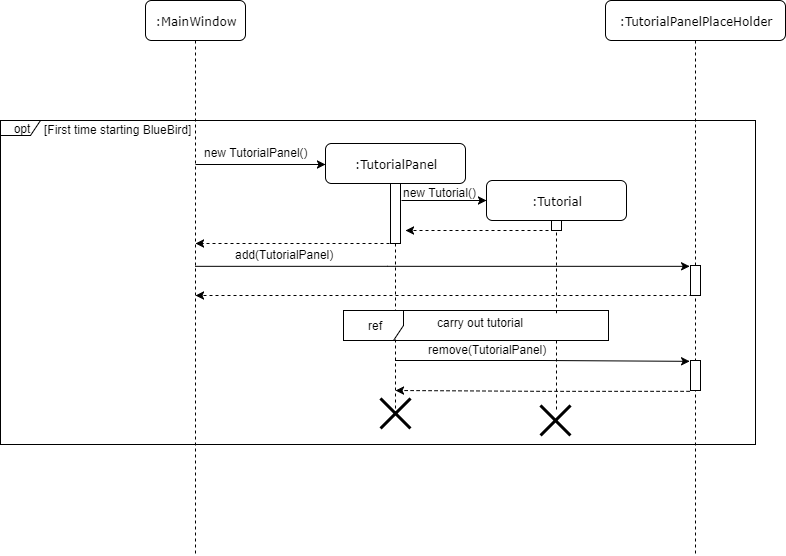
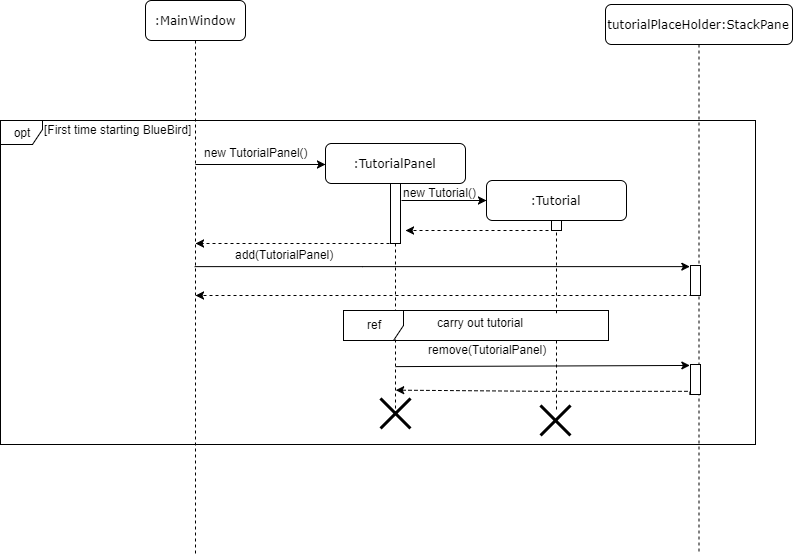
Rebuild pages at 740e5a27db8726411d00f9b6d494b023f313d6d5

diff --git a/DeveloperGuide.html b/DeveloperGuide.html
@@ -458,7 +458,7 @@ Note how the event is propagated through the <code>EventsCenter</code> to the <c
 <p><strong>API</strong> : <a href="https://github.com/CS2103AUG2017-T15-B4/main/tree/master/src/main/java/seedu/address/ui/Ui.java"><code>Ui.java</code></a></p>
 </div>
 <div class="paragraph">
-<p>The UI consists of a <code>MainWindow</code> that is made up of parts e.g.<code>CommandBox</code>, <code>ResultDisplay</code>, <code>PersonListPanel</code>, <code>StatusBarFooter</code>, <code>BrowserPanel</code> etc. All these, including the <code>MainWindow</code>, inherit from the abstract <code>UiPart</code> class.</p>
+<p>The UI consists of a <code>MainWindow</code> that is made up of parts e.g.<code>CommandBox</code>, <code>ResultDisplay</code>, <code>PersonListPanel</code>, <code>StatusBarFooter</code> etc. All these, including the <code>MainWindow</code>, inherit from the abstract <code>UiPart</code> class.</p>
 </div>
 <div class="paragraph">
 <p>The <code>UI</code> component uses JavaFx UI framework. The layout of these UI parts are defined in matching <code>.fxml</code> files that are in the <code>src/main/resources/view</code> folder. For example, the layout of the <a href="https://github.com/CS2103AUG2017-T15-B4/main/tree/master/src/main/java/seedu/address/ui/MainWindow.java"><code>MainWindow</code></a> is specified in <a href="https://github.com/CS2103AUG2017-T15-B4/main/tree/master/src/main/resources/view/MainWindow.fxml"><code>MainWindow.fxml</code></a></p>
@@ -1154,8 +1154,48 @@ variable change to <code>true</code>. Similarly, the variable can be changed fro
 <p>The first time tutorial will be launched when users start the Bluebird app for the very first time. To
 detect that Bluebird is launched for the first time, a boolean variable <code>isFirstTimeOpen</code> in <code>MainApp</code> is used.
 It is set to <code>false</code> by default and will only be set to <code>true</code> when Bluebird detects that <code>addressbook.xml</code> is not found.
-When <code>isFirstTimeOpen</code> is detected as <code>true</code> by the <code>MainWindow</code>, <code>TutorialPanel</code> will be added into the tutorial place holder.
- <code>TutorialPanel</code> will be removed at the end of the tutorial. Figure 4.10.1 shows the sequence of events that happens.</p>
+The code snippet below shows how <code>isFirstTimeOpen</code> is set to true.</p>
+</div>
+<div class="listingblock">
+<div class="content">
+<pre class="CodeRay highlight"><code data-lang="java"><span class="directive">public</span> <span class="type">class</span> <span class="class">MainApp</span> <span class="directive">extends</span> Application {
+    ...
+    private Model initModelManager(Storage storage, UserPrefs userPrefs) {
+        ...
+        try {
+            addressBookOptional = storage.readAddressBook();
+            <span class="keyword">if</span> (!addressBookOptional.isPresent()) {
+                logger.info(<span class="string"><span class="delimiter">&quot;</span><span class="content">Data file not found. Will be starting with a sample AddressBook</span><span class="delimiter">&quot;</span></span>);
+                isFirstTimeOpen = <span class="predefined-constant">true</span>;
+            }
+            ...
+        }
+        ...
+    }</code></pre>
+</div>
+</div>
+<div class="paragraph">
+<p>When <code>isFirstTimeOpen</code> is detected as <code>true</code> by the <code>MainWindow</code>, <code>TutorialPanel</code> will be added into the tutorial place holder.
+ <code>TutorialPanel</code> will be removed at the end of the tutorial.
+The code snippet below shows how <code>TutorialPanel</code> is added in the
+<code>MainWindow</code> when Bluebird is launched for the first time.</p>
+</div>
+<div class="listingblock">
+<div class="content">
+<pre class="CodeRay highlight"><code data-lang="java"><span class="directive">public</span> <span class="type">class</span> <span class="class">MainWindow</span> <span class="directive">extends</span> UiPart&lt;<span class="predefined-type">Region</span>&gt; {
+    ...
+    void fillInnerParts() {
+        ...
+        if (MainApp.isFirstTimeOpen()) {
+            TutorialPanel tutorialPanel = <span class="keyword">new</span> TutorialPanel(<span class="local-variable">this</span>, tutorialPlaceholder);
+            tutorialPlaceholder.getChildren().add(tutorialPanel.getRoot());
+        }
+        ...
+}</code></pre>
+</div>
+</div>
+<div class="paragraph">
+<p>Figure 4.10.1 shows the sequence of events that happens.</p>
 </div>
 <div class="imageblock">
 <div class="content">
@@ -1177,24 +1217,6 @@ to click next, back or skip tutorial at any point of the tutorial. The sequence 
 </div>
 <div class="paragraph">
 <p>Figure 4.10.2: Sequence diagram for refrence frame "carry out tutorial"</p>
-</div>
-<div class="paragraph">
-<p>The code snippet below shows how <code>TutorialPanel</code> is added in the
-<code>MainWindow</code> when Bluebird is launched for the first time.</p>
-</div>
-<div class="listingblock">
-<div class="content">
-<pre class="CodeRay highlight"><code data-lang="java"><span class="directive">public</span> <span class="type">class</span> <span class="class">MainWindow</span> <span class="directive">extends</span> UiPart&lt;<span class="predefined-type">Region</span>&gt; {
-    ...
-    void fillInnerParts() {
-        ...
-        if (MainApp.isFirstTimeOpen()) {
-            TutorialPanel tutorialPanel = <span class="keyword">new</span> TutorialPanel(<span class="local-variable">this</span>, browserPlaceholder);
-            tutorialPlaceholder.getChildren().add(tutorialPanel.getRoot());
-        }
-        ...
-}</code></pre>
-</div>
 </div>
 <div class="paragraph">
 <p>The code snippet below shows how <code>TutorialPanel</code> is removed after
@@ -3191,7 +3213,7 @@ distinguishable from the text</pre>
 </div>
 <div id="footer">
 <div id="footer-text">
-Last updated 2017-11-12 08:49:52 +00:00
+Last updated 2017-11-12 09:19:32 +00:00
 </div>
 </div>
 </body>

diff --git a/team/alpheus.html b/team/alpheus.html
@@ -266,8 +266,48 @@ Therefore, there is a need to provide first time users of Bluebird a step-by-ste
 <p>The first time tutorial will be launched when users start the Bluebird app for the very first time. To
 detect that Bluebird is launched for the first time, a boolean variable <code>isFirstTimeOpen</code> in <code>MainApp</code> is used.
 It is set to <code>false</code> by default and will only be set to <code>true</code> when Bluebird detects that <code>addressbook.xml</code> is not found.
-When <code>isFirstTimeOpen</code> is detected as <code>true</code> by the <code>MainWindow</code>, <code>TutorialPanel</code> will be added into the tutorial place holder.
- <code>TutorialPanel</code> will be removed at the end of the tutorial. Figure 4.10.1 shows the sequence of events that happens.</p>
+The code snippet below shows how <code>isFirstTimeOpen</code> is set to true.</p>
+</div>
+<div class="listingblock">
+<div class="content">
+<pre class="CodeRay highlight"><code data-lang="java"><span class="directive">public</span> <span class="type">class</span> <span class="class">MainApp</span> <span class="directive">extends</span> Application {
+    ...
+    private Model initModelManager(Storage storage, UserPrefs userPrefs) {
+        ...
+        try {
+            addressBookOptional = storage.readAddressBook();
+            <span class="keyword">if</span> (!addressBookOptional.isPresent()) {
+                logger.info(<span class="string"><span class="delimiter">&quot;</span><span class="content">Data file not found. Will be starting with a sample AddressBook</span><span class="delimiter">&quot;</span></span>);
+                isFirstTimeOpen = <span class="predefined-constant">true</span>;
+            }
+            ...
+        }
+        ...
+    }</code></pre>
+</div>
+</div>
+<div class="paragraph">
+<p>When <code>isFirstTimeOpen</code> is detected as <code>true</code> by the <code>MainWindow</code>, <code>TutorialPanel</code> will be added into the tutorial place holder.
+ <code>TutorialPanel</code> will be removed at the end of the tutorial.
+The code snippet below shows how <code>TutorialPanel</code> is added in the
+<code>MainWindow</code> when Bluebird is launched for the first time.</p>
+</div>
+<div class="listingblock">
+<div class="content">
+<pre class="CodeRay highlight"><code data-lang="java"><span class="directive">public</span> <span class="type">class</span> <span class="class">MainWindow</span> <span class="directive">extends</span> UiPart&lt;<span class="predefined-type">Region</span>&gt; {
+    ...
+    void fillInnerParts() {
+        ...
+        if (MainApp.isFirstTimeOpen()) {
+            TutorialPanel tutorialPanel = <span class="keyword">new</span> TutorialPanel(<span class="local-variable">this</span>, tutorialPlaceholder);
+            tutorialPlaceholder.getChildren().add(tutorialPanel.getRoot());
+        }
+        ...
+}</code></pre>
+</div>
+</div>
+<div class="paragraph">
+<p>Figure 4.10.1 shows the sequence of events that happens.</p>
 </div>
 <div class="imageblock">
 <div class="content">
@@ -289,24 +329,6 @@ to click next, back or skip tutorial at any point of the tutorial. The sequence 
 </div>
 <div class="paragraph">
 <p>Figure 4.10.2: Sequence diagram for refrence frame "carry out tutorial"</p>
-</div>
-<div class="paragraph">
-<p>The code snippet below shows how <code>TutorialPanel</code> is added in the
-<code>MainWindow</code> when Bluebird is launched for the first time.</p>
-</div>
-<div class="listingblock">
-<div class="content">
-<pre class="CodeRay highlight"><code data-lang="java"><span class="directive">public</span> <span class="type">class</span> <span class="class">MainWindow</span> <span class="directive">extends</span> UiPart&lt;<span class="predefined-type">Region</span>&gt; {
-    ...
-    void fillInnerParts() {
-        ...
-        if (MainApp.isFirstTimeOpen()) {
-            TutorialPanel tutorialPanel = <span class="keyword">new</span> TutorialPanel(<span class="local-variable">this</span>, browserPlaceholder);
-            tutorialPlaceholder.getChildren().add(tutorialPanel.getRoot());
-        }
-        ...
-}</code></pre>
-</div>
 </div>
 <div class="paragraph">
 <p>The code snippet below shows how <code>TutorialPanel</code> is removed after
@@ -681,7 +703,8 @@ Cons: There is a possibility that the child may edit important contacts or tasks
 (Pull requests <a href="https://github.com/CS2103AUG2017-T15-B4/main/pull/14">#14</a>, <a href="https://github.com/CS2103AUG2017-T15-B4/main/pull/58">#58</a>,
 <a href="https://github.com/CS2103AUG2017-T15-B4/main/pull/73">#73</a>, <a href="https://github.com/CS2103AUG2017-T15-B4/main/pull/118">#118</a>,
 <a href="https://github.com/CS2103AUG2017-T15-B4/main/pull/134">#134</a>, <a href="https://github.com/CS2103AUG2017-T15-B4/main/pull/143">#143</a>,
-<a href="https://github.com/CS2103AUG2017-T15-B4/main/pull/144">#144</a>, <a href="https://github.com/CS2103AUG2017-T15-B4/main/pull/205">#205</a>,
+<a href="https://github.com/CS2103AUG2017-T15-B4/main/pull/144">#144</a>, <a href="https://github.com/CS2103AUG2017-T15-B4/main/pull/165">#165</a>,
+<a href="https://github.com/CS2103AUG2017-T15-B4/main/pull/205">#205</a>,
 <a href="https://github.com/CS2103AUG2017-T15-B4/main/pull/208">#208</a>, <a href="https://github.com/CS2103AUG2017-T15-B4/main/pull/245">#245</a>,
 <a href="https://github.com/CS2103AUG2017-T15-B4/main/pull/257">#257</a>)</p>
 </li>
@@ -705,7 +728,7 @@ Cons: There is a possibility that the child may edit important contacts or tasks
 </div>
 <div id="footer">
 <div id="footer-text">
-Last updated 2017-11-12 08:49:52 +00:00
+Last updated 2017-11-12 09:19:32 +00:00
 </div>
 </div>
 </body>

diff --git a/LearningOutcomes.html b/LearningOutcomes.html
@@ -561,7 +561,7 @@ class gives some examples of how to use <em>Equivalence Partitions</em>, <em>Bou
 </div>
 <div id="footer">
 <div id="footer-text">
-Last updated 2017-11-12 08:49:52 +00:00
+Last updated 2017-11-12 09:19:32 +00:00
 </div>
 </div>
 </body>

diff --git a/UsingGradle.html b/UsingGradle.html
@@ -261,7 +261,7 @@ See <code>build.gradle</code> &#8594; <code>allprojects</code> &#8594; <code>dep
 </div>
 <div id="footer">
 <div id="footer-text">
-Last updated 2017-11-12 08:49:52 +00:00
+Last updated 2017-11-12 09:19:32 +00:00
 </div>
 </div>
 </body>

diff --git a/team/deepak.html b/team/deepak.html
@@ -460,7 +460,7 @@ If the <code>redoStack</code> is empty, then there are no other commands left to
 </div>
 <div id="footer">
 <div id="footer-text">
-Last updated 2017-11-12 08:49:52 +00:00
+Last updated 2017-11-12 09:19:32 +00:00
 </div>
 </div>
 </body>

diff --git a/team/johndoe.html b/team/johndoe.html
@@ -362,7 +362,7 @@ If the <code>redoStack</code> is empty, then there are no other commands left to
 </div>
 <div id="footer">
 <div id="footer-text">
-Last updated 2017-11-12 08:49:52 +00:00
+Last updated 2017-11-12 09:19:32 +00:00
 </div>
 </div>
 </body>

diff --git a/team/wyn.html b/team/wyn.html
@@ -362,7 +362,7 @@ If the <code>redoStack</code> is empty, then there are no other commands left to
 </div>
 <div id="footer">
 <div id="footer-text">
-Last updated 2017-11-12 08:49:52 +00:00
+Last updated 2017-11-12 09:19:32 +00:00
 </div>
 </div>
 </body>

diff --git a/UsingTravis.html b/UsingTravis.html
@@ -299,7 +299,7 @@ Suggested change: Remove the codacy badge from <code>README</code>.</p>
 </div>
 <div id="footer">
 <div id="footer-text">
-Last updated 2017-11-12 08:49:52 +00:00
+Last updated 2017-11-12 09:19:32 +00:00
 </div>
 </div>
 </body>

diff --git a/team/azizi.html b/team/azizi.html
@@ -281,7 +281,7 @@ default constructor where the parsed field is empty.<br></p>
 </div>
 <div id="footer">
 <div id="footer-text">
-Last updated 2017-11-12 08:49:52 +00:00
+Last updated 2017-11-12 09:19:32 +00:00
 </div>
 </div>
 </body>

diff --git a/UsingCheckstyle.html b/UsingCheckstyle.html
@@ -103,7 +103,7 @@ Restart the IDE to complete the installation.</p>
 </div>
 <div id="footer">
 <div id="footer-text">
-Last updated 2017-11-12 08:49:52 +00:00
+Last updated 2017-11-12 09:19:32 +00:00
 </div>
 </div>
 </body>

diff --git a/UserGuide.html b/UserGuide.html
@@ -1123,7 +1123,7 @@ data of your previous Address Book folder.</p>
 </div>
 <div id="footer">
 <div id="footer-text">
-Last updated 2017-11-12 08:49:52 +00:00
+Last updated 2017-11-12 09:19:32 +00:00
 </div>
 </div>
 </body>

diff --git a/AboutUs.html b/AboutUs.html
@@ -75,7 +75,7 @@ Responsibilities: Dev Ops + Threading</p>
 </div>
 <div id="footer">
 <div id="footer-text">
-Last updated 2017-11-12 08:49:52 +00:00
+Last updated 2017-11-12 09:19:32 +00:00
 </div>
 </div>
 </body>
